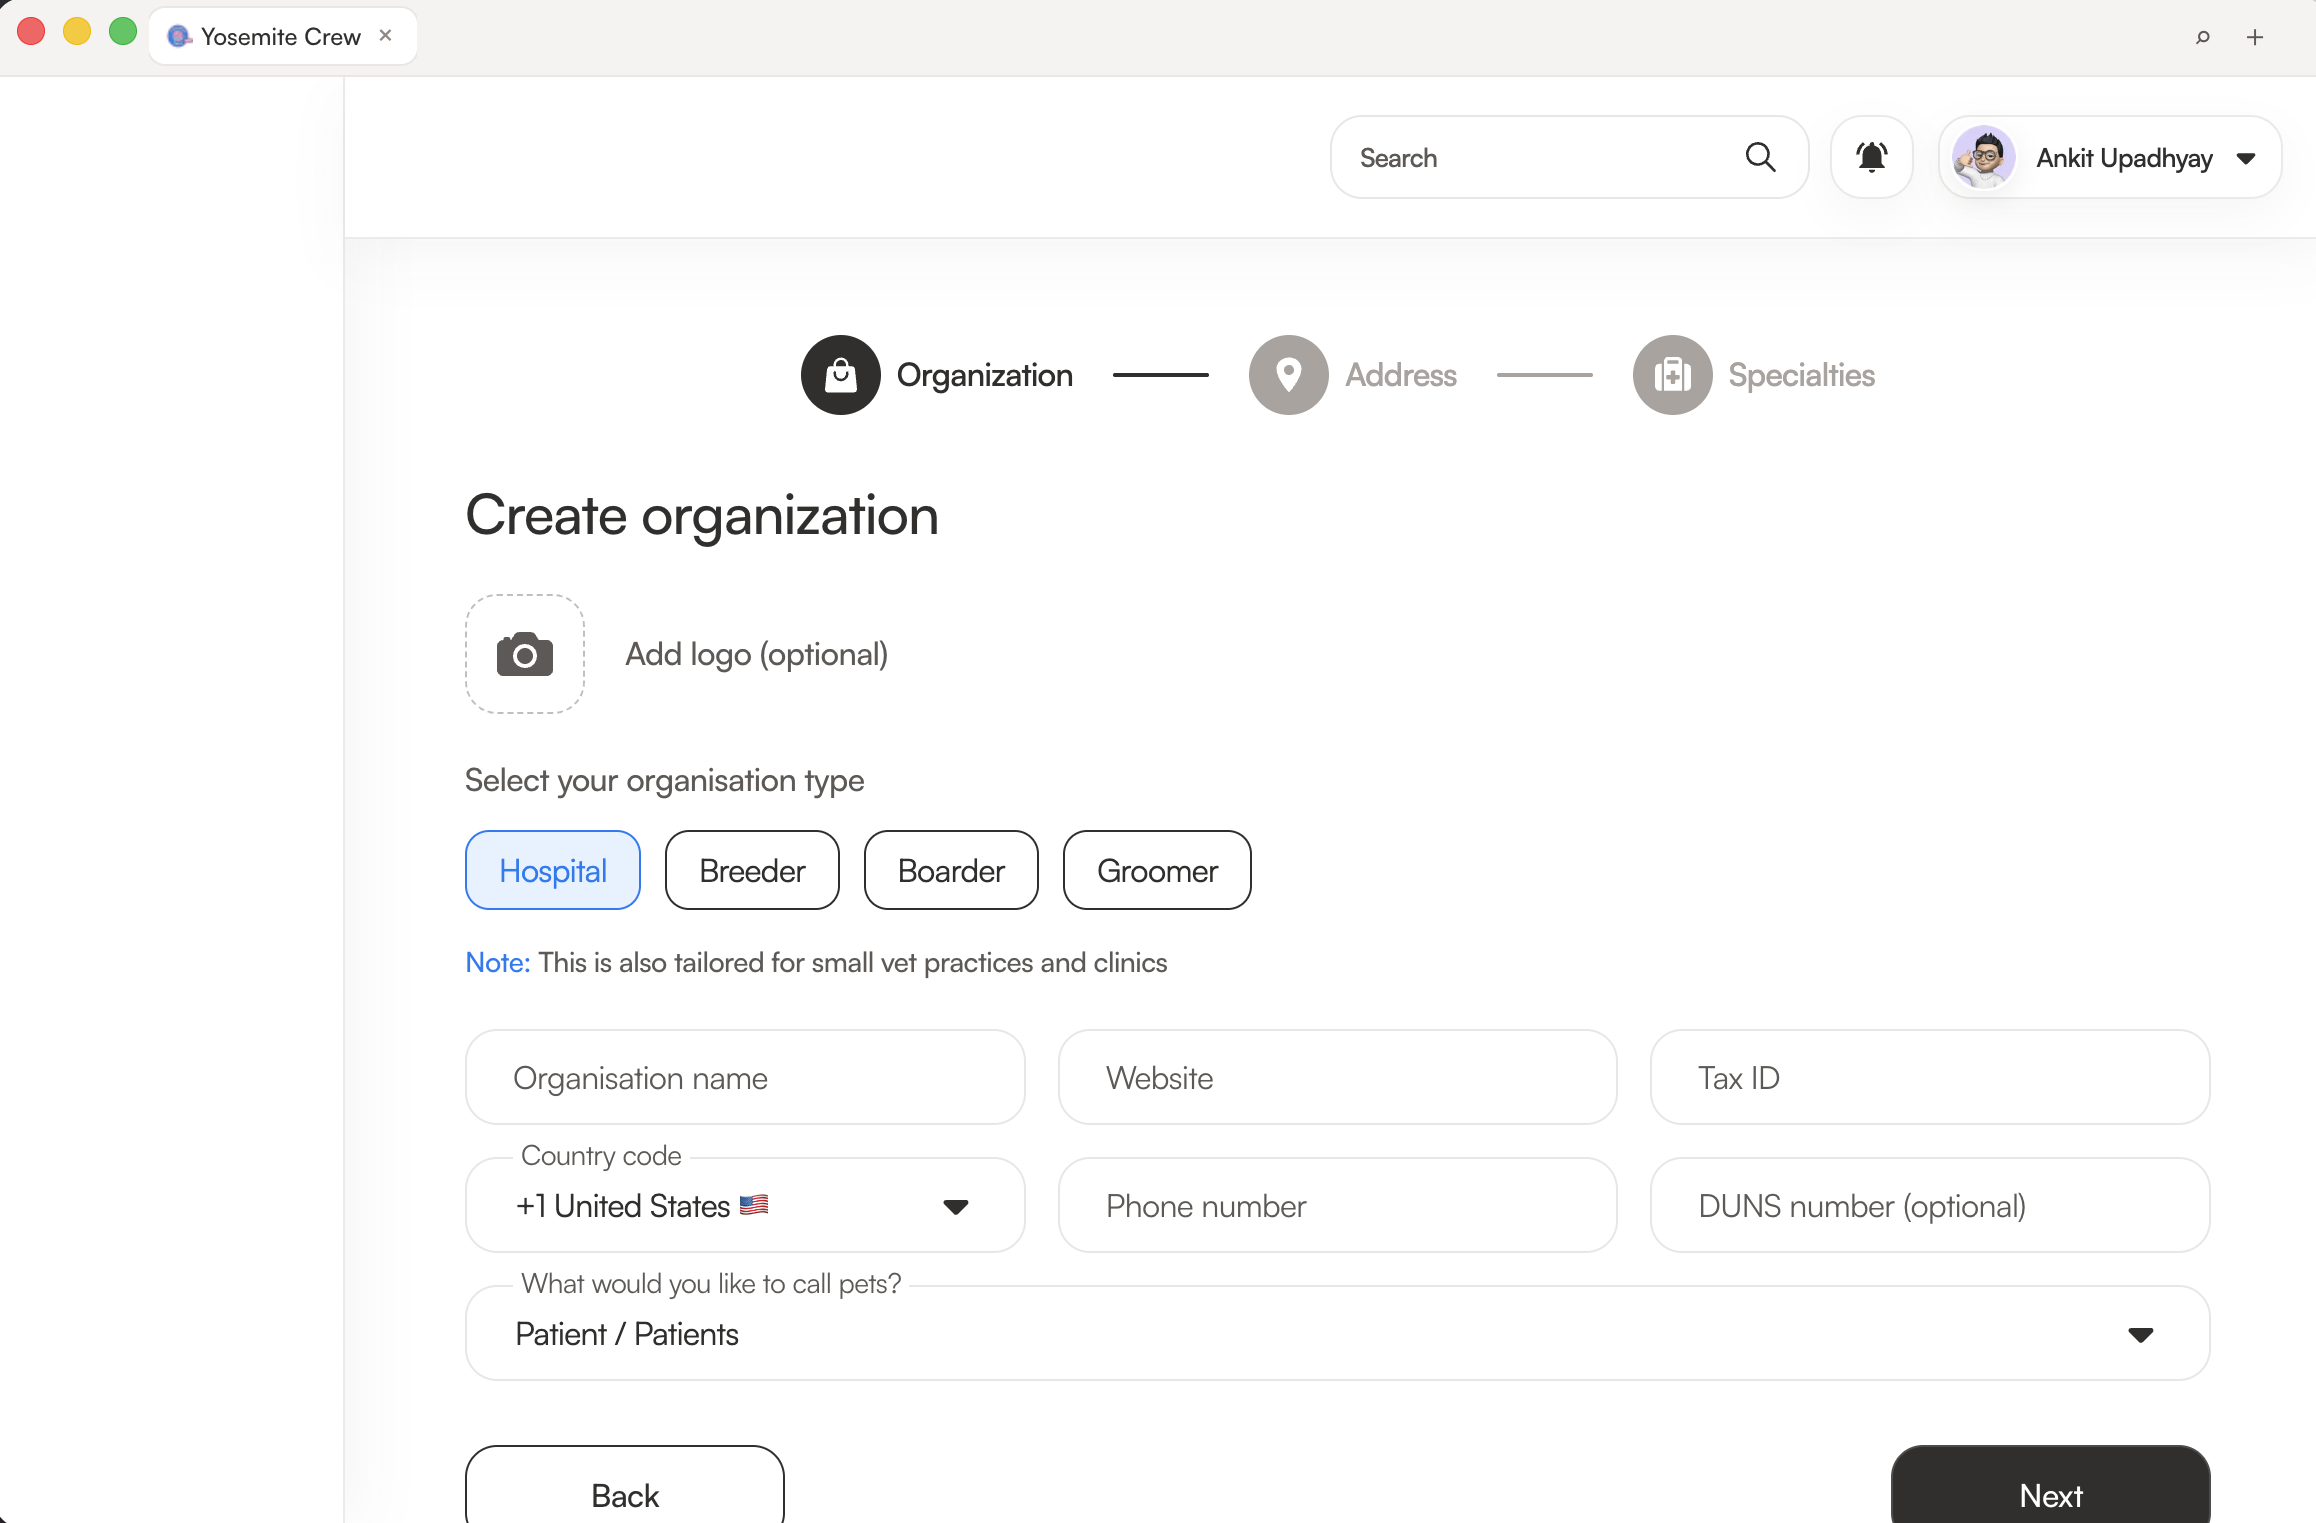
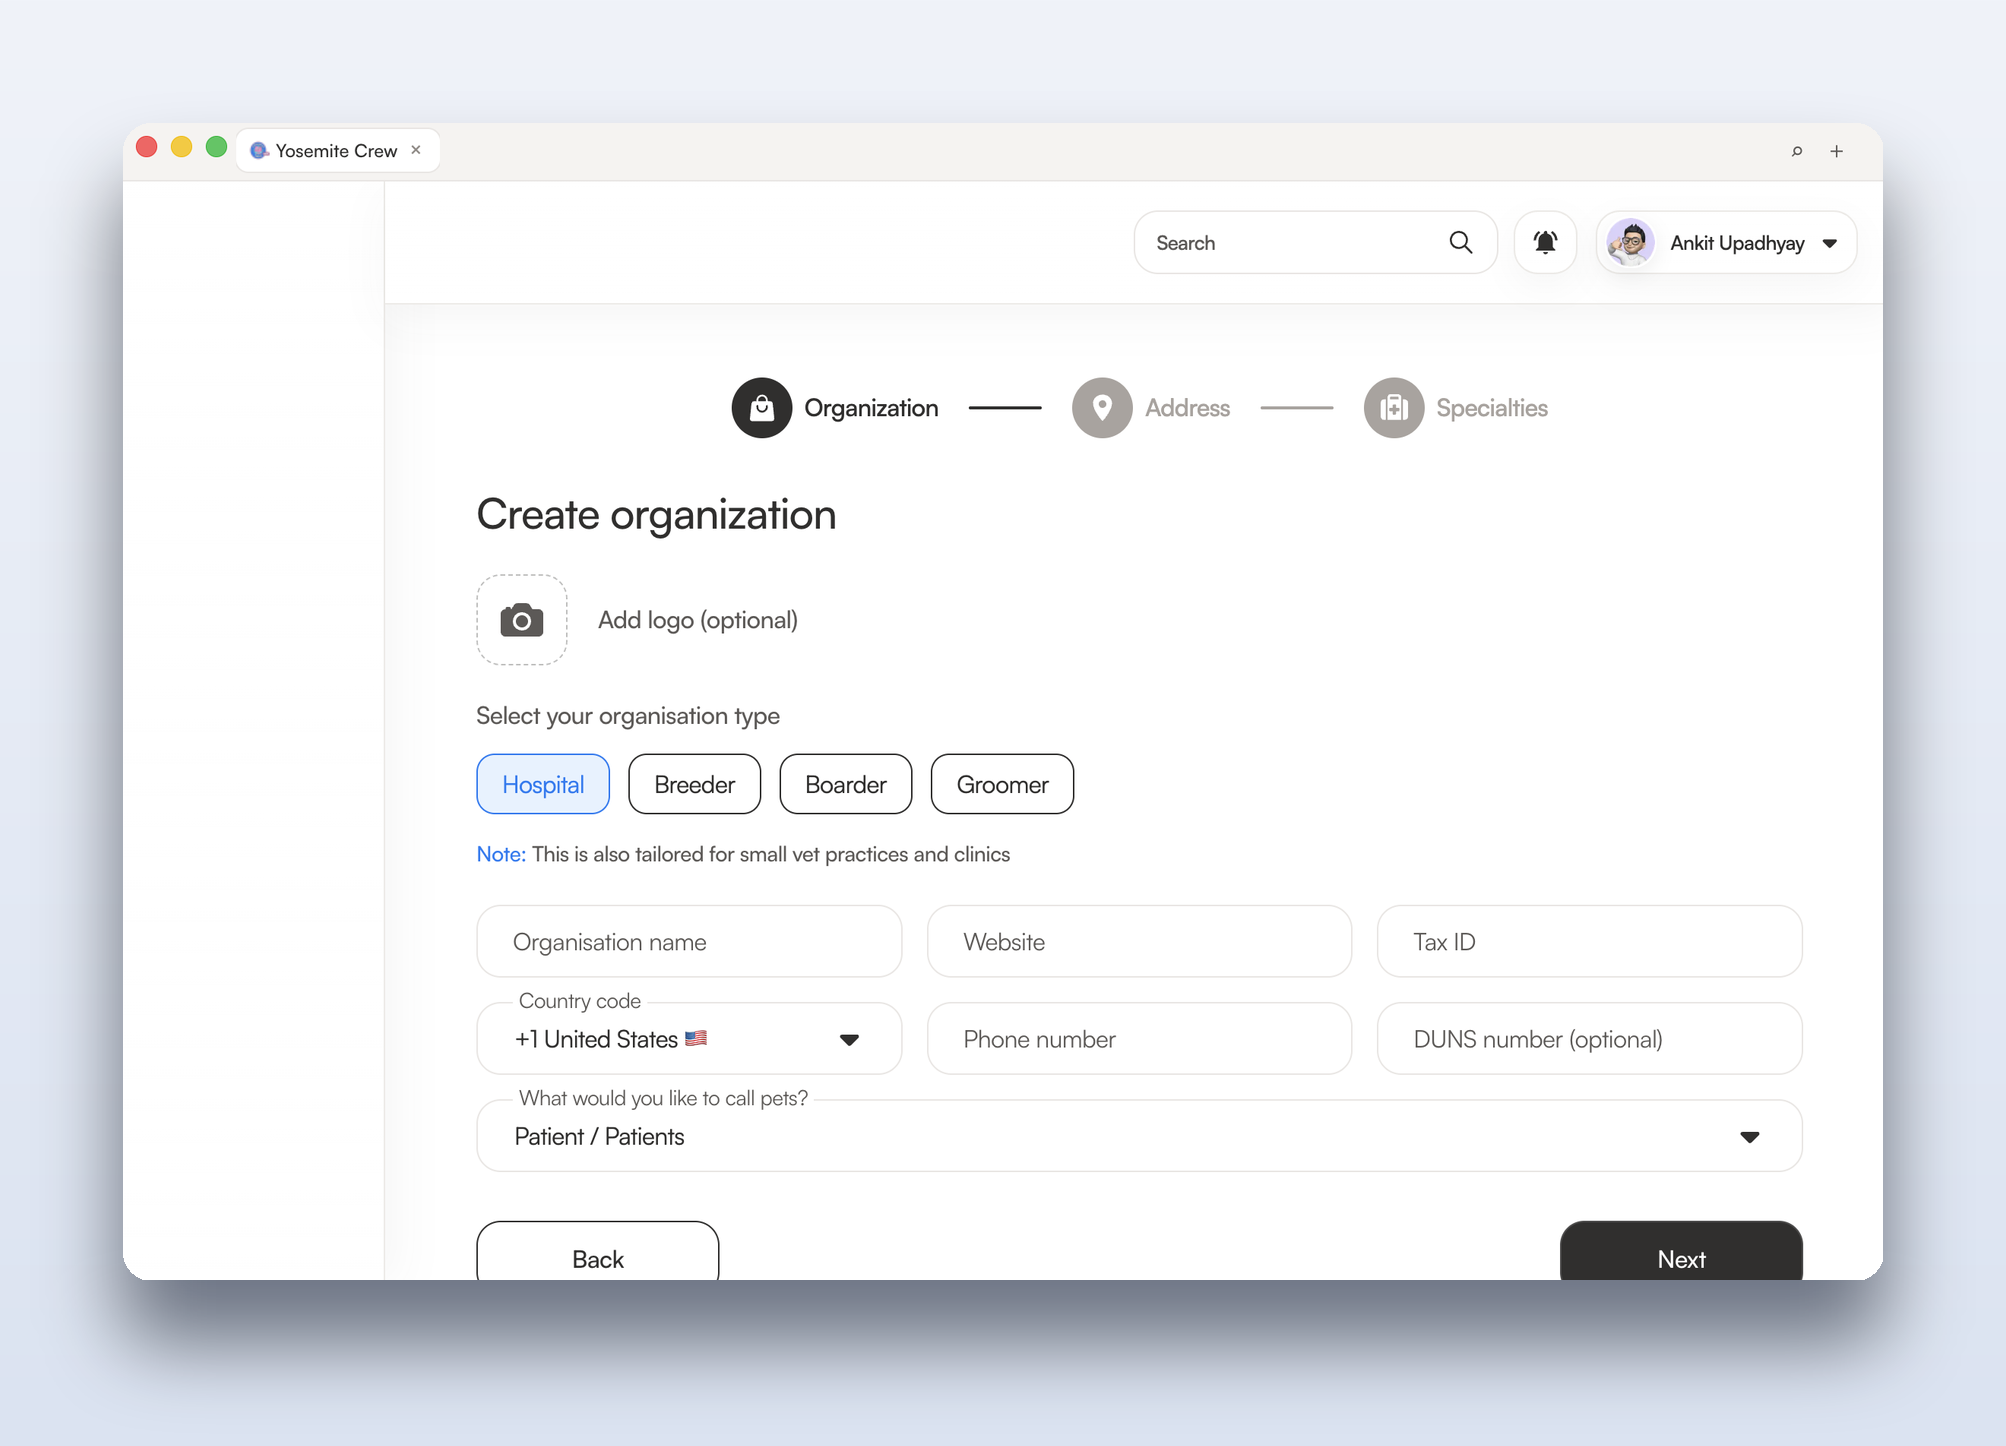
docs(desktop): add polished screenshot gallery to desktop README

diff --git a/apps/desktop/README.md b/apps/desktop/README.md
@@ -48,10 +48,24 @@ It's the same PIMS your team knows, plus the things only a native app can do: it
 
 ## ✨ Features
 
-<p align="center">
-  <img src="resources/screenshots/onboarding-organization.png" width="860" alt="Yosemite Crew PIMS Desktop running in a native tab — Create organization onboarding" />
-</p>
-<p align="center"><em>The full PIMS in a native, tabbed window — here, organization onboarding running in its own tab.</em></p>
+<table>
+  <tr>
+    <td width="50%" valign="top">
+      <img src="resources/screenshots/dashboard.png" alt="Yosemite Crew PIMS Desktop dashboard with sidebar navigation, command palette, and live practice metrics" /><br />
+      <sub><b>Dashboard &amp; navigation</b> — sidebar, <code>⌘K</code> command palette, and at-a-glance practice metrics.</sub>
+    </td>
+    <td width="50%" valign="top">
+      <img src="resources/screenshots/native-menus.png" alt="Native macOS application menu showing Command Palette, Settings, and Check for Updates" /><br />
+      <sub><b>Native macOS menus</b> — a real menu bar with Command Palette, Settings, and built-in auto-update.</sub>
+    </td>
+  </tr>
+  <tr>
+    <td colspan="2" align="center" valign="top">
+      <img src="resources/screenshots/onboarding-organization.png" width="72%" alt="Organization onboarding running in its own native tab" /><br />
+      <sub><b>The full PIMS in native tabs</b> — every workflow opens in its own tab; split two side by side.</sub>
+    </td>
+  </tr>
+</table>
 
 **🖥️ A real desktop experience**
 - Multi-tab browsing (Arc/Figma-style) — each tab is its own view; open, close, reorder, split two side-by-side, and restore your tabs on relaunch.